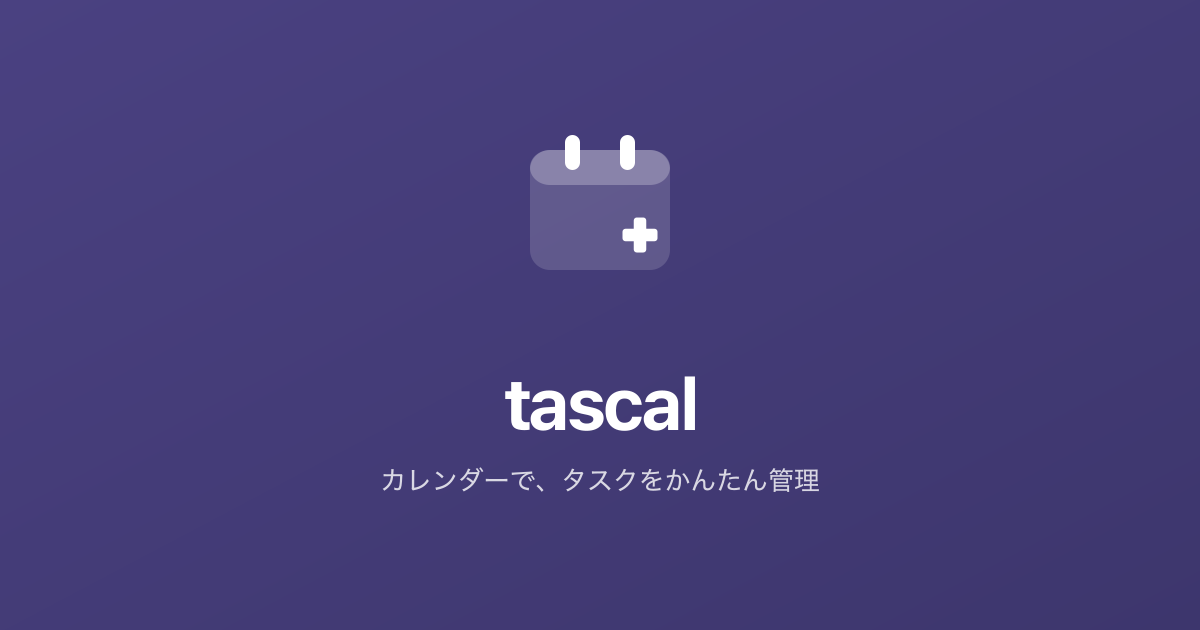
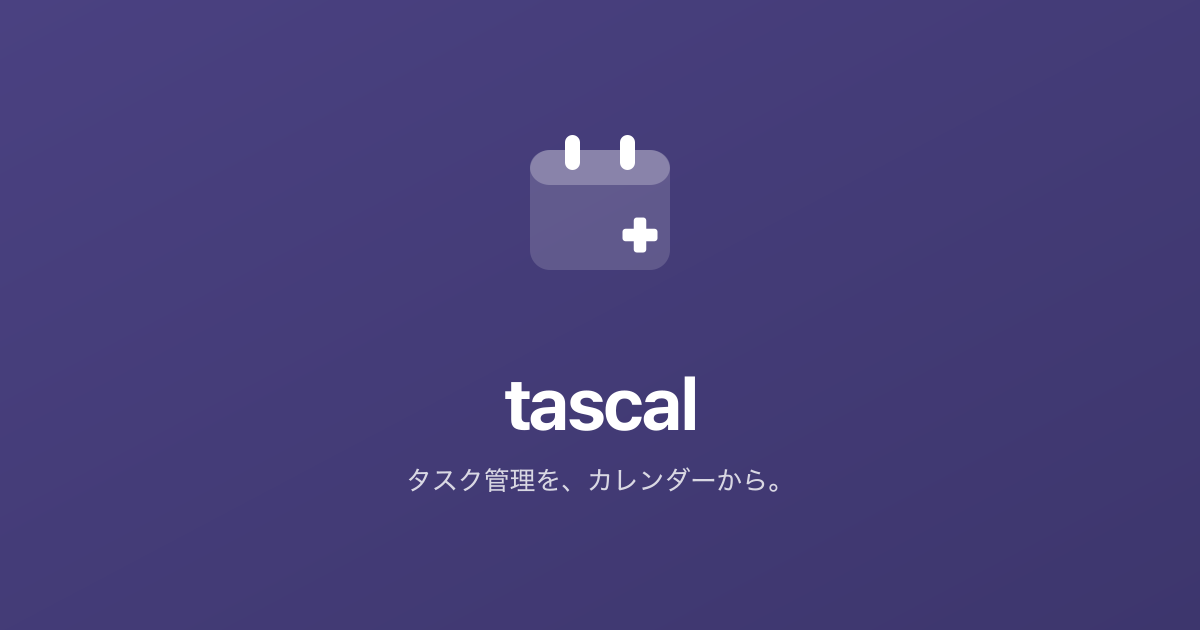
fix: OGP キャッチコピーを「タスク管理を、カレンダーから。」に変更
アプリ名の由来 (task + calendar) と順序を合わせる。

Changed region(s): [[0.3083, 0.7238, 0.6783, 0.7841]]

diff --git a/apps/web/scripts/generate-images.ts b/apps/web/scripts/generate-images.ts
@@ -30,7 +30,7 @@ async function generateOgpImage() {
   <!-- App name -->
   <text x="600" y="430" text-anchor="middle" font-family="system-ui,sans-serif" font-size="72" font-weight="700" fill="#ffffff" letter-spacing="-1">tascal</text>
   <!-- Tagline -->
-  <text x="600" y="490" text-anchor="middle" font-family="system-ui,sans-serif" font-size="28" fill="rgba(255,255,255,0.8)">カレンダーで、タスクをかんたん管理</text>
+  <text x="600" y="490" text-anchor="middle" font-family="system-ui,sans-serif" font-size="28" fill="rgba(255,255,255,0.8)">タスク管理を、カレンダーから。</text>
 </svg>`;
 
   const png = await sharp(Buffer.from(ogpSvg)).png().toBuffer();
